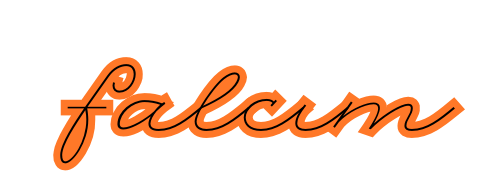
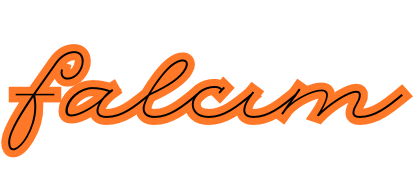
update

Changed region(s): [[0.0, 0.2367, 1.0, 0.9467]]

diff --git a/src/components/NavbarMenu.vue b/src/components/NavbarMenu.vue
@@ -146,7 +146,7 @@ export default {
 
 <style scoped>
 .logo {
-  max-width: 95px;
+  max-width: 110px;
   transition: transform 0.3s ease-in-out;
 }
 .navbar {
@@ -155,14 +155,14 @@ export default {
 }
 .language-icon {
   cursor: pointer;
-  margin-left: 10px;
-  width: 24px; /* Adjust size as needed */
-  height: 24px; /* Adjust size as needed */
+  margin-left: 12px;
+  width: 32px; /* Adjust size as needed */
+  height: 32px; /* Adjust size as needed */
 }
 
 .language-icon-sm {
-  width: 16px;
-  height: 16px;
+  width: 18px;
+  height: 18px;
 }
 
 .container {
@@ -179,7 +179,7 @@ export default {
 }
 
 .logo:hover {
-  transform: scale(1.1);
+  transform: scale(1.15);
 }
 
 .navbar-toggler-icon {
@@ -190,8 +190,15 @@ export default {
 }
 
 .nav-link {
+  font-size: 18px; /* Increase font size */
   color: #4a4a4a; /* Darker gray text color */
   transition: color 0.3s ease-in-out;
+  padding-left: 0px;
+  margin-right: 7px; /* Increase spacing between links */
+}
+
+.icon {
+  font-size: 22px; /* Increase icon size */
 }
 
 .nav-link:hover, .dropdown-item:hover {
@@ -246,8 +253,10 @@ export default {
 }
 
 .dropdown-item {
+  font-size: 16px;
   transition: background-color 0.3s ease;
 }
+
 @media (min-width: 992px) {
   .dropdown-menu {
     border: none;
